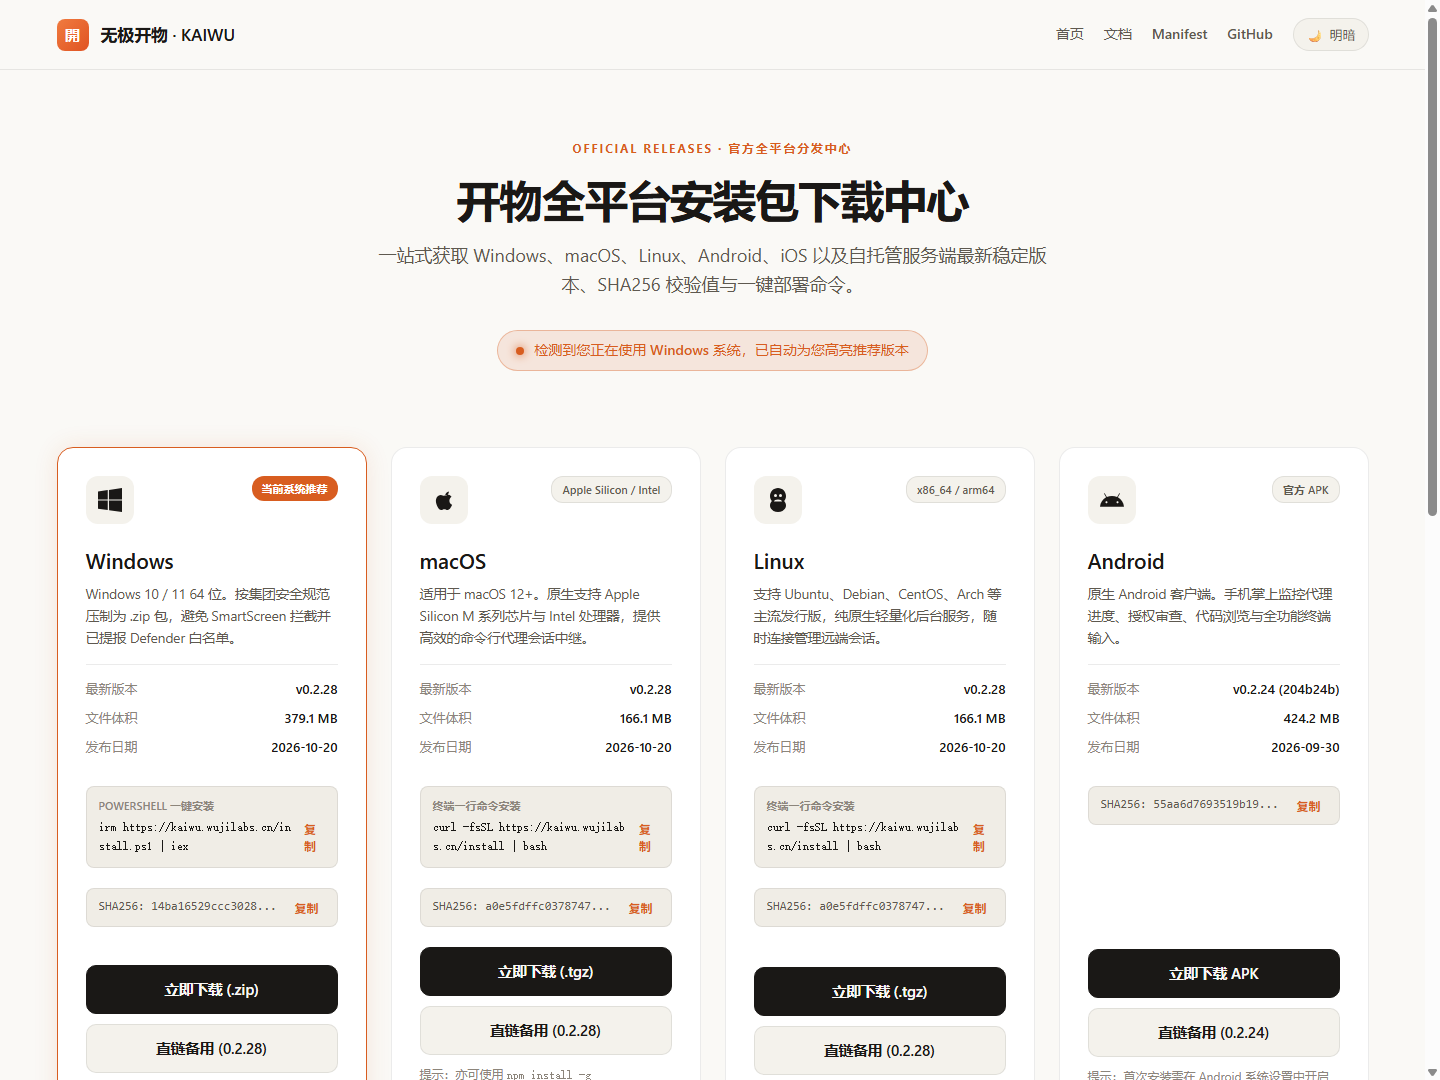
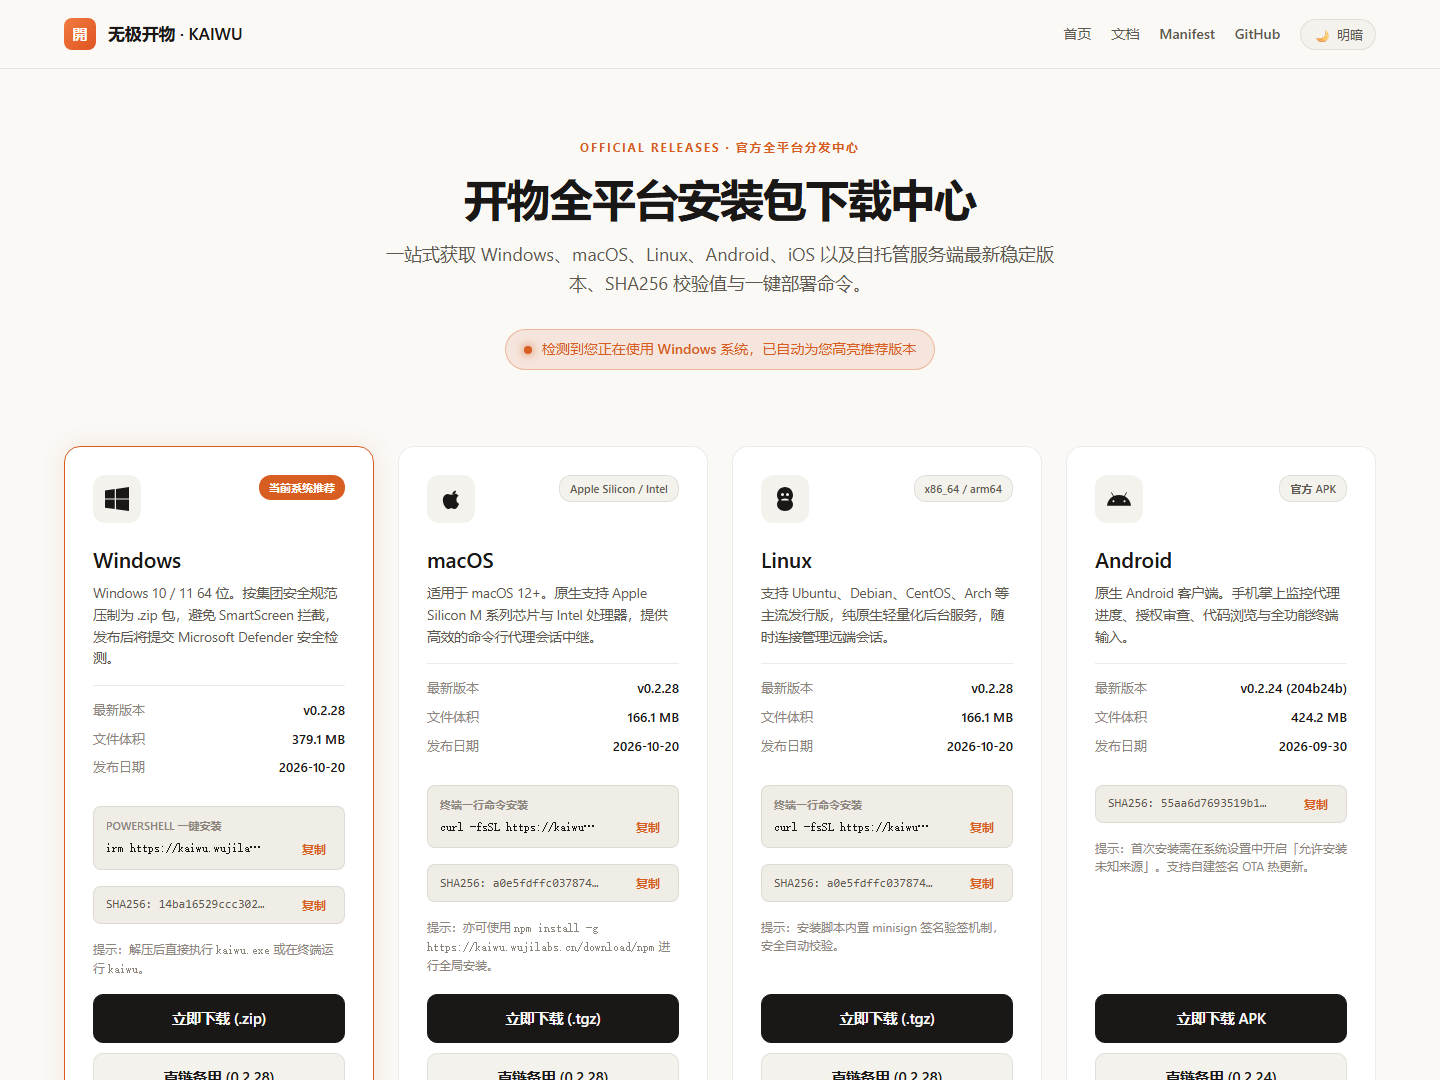
fix(website): 优化下载中心复制按钮与卡片按钮底端对齐，核实 Defender 表述
- 修复桌面端卡片内复制按钮被挤成两行的问题（增加 nowrap、固定宽度与截断保护）
- 优化卡片布局：采用纵向 flex 并设置按钮区 margin-top: auto，统一横向基准线
- 核实 Defender 提报情况并将文案修正为“发布后将提交 Microsoft Defender 安全检测”
- 更新桌面端 (1440) 与移动端 (390) 截图
- 鸿蒙客户端确认为纯血鸿蒙 NEXT 原生工程，因环境未安装 DevEco Studio / SDK 保持即将提供状态

Contract: K-DL
Actor: zoujin

diff --git a/apps/website/public/download/index.html b/apps/website/public/download/index.html
@@ -94,6 +94,7 @@
             font-weight: 600;
             font-size: 17px;
             letter-spacing: -0.01em;
+            white-space: nowrap;
         }
 
         .brand-logo {
@@ -107,12 +108,14 @@
             color: white;
             font-weight: 700;
             font-size: 15px;
+            flex-shrink: 0;
         }
 
         .nav-links {
             display: flex;
             align-items: center;
             gap: 20px;
+            flex-wrap: wrap;
         }
 
         .nav-links a {
@@ -121,6 +124,7 @@
             font-size: 14px;
             font-weight: 500;
             transition: color 0.15s ease;
+            white-space: nowrap;
         }
 
         .nav-links a:hover {
@@ -172,8 +176,29 @@
         }
 
         @media (max-width: 768px) {
+            .header-content {
+                gap: 12px;
+            }
+            .brand-link {
+                font-size: 15px;
+                gap: 8px;
+            }
+            .nav-links {
+                gap: 12px;
+            }
+            .nav-links a {
+                font-size: 13px;
+            }
+            .theme-toggle-btn {
+                padding: 4px 8px;
+                font-size: 12px;
+                white-space: nowrap;
+            }
             .hero h1 {
                 font-size: 32px;
+            }
+            .grid {
+                grid-template-columns: 1fr;
             }
         }
 
@@ -318,10 +343,11 @@
             border: 1px solid var(--border);
             border-radius: 8px;
             padding: 8px 12px;
-            margin-bottom: 20px;
+            margin-bottom: 16px;
             display: flex;
             justify-content: space-between;
             align-items: center;
+            gap: 8px;
             font-family: var(--font-mono);
             font-size: 12px;
         }
@@ -331,7 +357,8 @@
             overflow: hidden;
             text-overflow: ellipsis;
             white-space: nowrap;
-            max-width: 200px;
+            flex: 1;
+            min-width: 0;
         }
 
         .copy-btn {
@@ -344,10 +371,19 @@
             padding: 2px 6px;
             border-radius: 4px;
             transition: opacity 0.15s;
+            white-space: nowrap;
+            flex-shrink: 0;
+            width: 58px;
+            text-align: right;
+            box-sizing: border-box;
         }
 
         .copy-btn:hover {
             opacity: 0.8;
+        }
+
+        .manifest-code .copy-btn {
+            width: 76px;
         }
 
         .install-box {
@@ -355,7 +391,7 @@
             border: 1px solid var(--border);
             border-radius: 8px;
             padding: 10px 12px;
-            margin-bottom: 20px;
+            margin-bottom: 16px;
             font-family: var(--font-mono);
             font-size: 12px;
             position: relative;
@@ -374,8 +410,16 @@
             display: flex;
             justify-content: space-between;
             align-items: center;
+            gap: 8px;
             color: var(--text-primary);
-            word-break: break-all;
+        }
+
+        .install-cmd-content code {
+            overflow: hidden;
+            text-overflow: ellipsis;
+            white-space: nowrap;
+            flex: 1;
+            min-width: 0;
         }
 
         .btn-group {
@@ -432,8 +476,9 @@
         .subtext-note {
             font-size: 12px;
             color: var(--text-muted);
-            margin-top: 10px;
+            margin-bottom: 16px;
             line-height: 1.5;
+            min-height: 36px;
         }
 
         /* Manifest Box */
@@ -553,7 +598,7 @@
                     <span class="badge" id="badge-win">x64 便携包</span>
                 </div>
                 <h2 class="card-title">Windows</h2>
-                <p class="card-desc">Windows 10 / 11 64 位。按集团安全规范压制为 .zip 包，避免 SmartScreen 拦截并已提报 Defender 白名单。</p>
+                <p class="card-desc">Windows 10 / 11 64 位。按集团安全规范压制为 .zip 包，避免 SmartScreen 拦截，发布后将提交 Microsoft Defender 安全检测。</p>
                 <ul class="meta-list">
                     <li class="meta-item"><span class="meta-label">最新版本</span><span class="meta-val">v0.2.28</span></li>
                     <li class="meta-item"><span class="meta-label">文件体积</span><span class="meta-val">379.1 MB</span></li>
@@ -570,11 +615,11 @@
[2 lines of base64/hex data omitted]
                 </div>
+                <p class="subtext-note">提示：解压后直接执行 <code>kaiwu.exe</code> 或在终端运行 <code>kaiwu</code>。</p>
                 <div class="btn-group">
                     <a href="https://kaiwu.wujilabs.cn/download/windows" class="btn btn-primary">立即下载 (.zip)</a>
                     <a href="https://kaiwu.wujilabs.cn/docs/releases/windows/0.2.28/kaiwu-v0.2.28-windows-x64.zip" class="btn btn-secondary">直链备用 (0.2.28)</a>
                 </div>
-                <p class="subtext-note">提示：解压后直接执行 <code>kaiwu.exe</code> 或在终端运行 <code>kaiwu</code>。</p>
             </div>
 
             <!-- macOS Card -->
@@ -603,11 +648,11 @@
[2 lines of base64/hex data omitted]
                 </div>
+                <p class="subtext-note">提示：亦可使用 <code>npm install -g https://kaiwu.wujilabs.cn/download/npm</code> 进行全局安装。</p>
                 <div class="btn-group">
                     <a href="https://kaiwu.wujilabs.cn/download/macos" class="btn btn-primary">立即下载 (.tgz)</a>
                     <a href="https://kaiwu.wujilabs.cn/docs/releases/macos/0.2.28/kaiwu-cli-0.2.28.tgz" class="btn btn-secondary">直链备用 (0.2.28)</a>
                 </div>
-                <p class="subtext-note">提示：亦可使用 <code>npm install -g https://kaiwu.wujilabs.cn/download/npm</code> 进行全局安装。</p>
             </div>
 
             <!-- Linux Card -->
@@ -636,11 +681,11 @@
[2 lines of base64/hex data omitted]
                 </div>
+                <p class="subtext-note">提示：安装脚本内置 minisign 签名验签机制，安全自动校验。</p>
                 <div class="btn-group">
                     <a href="https://kaiwu.wujilabs.cn/download/linux" class="btn btn-primary">立即下载 (.tgz)</a>
                     <a href="https://kaiwu.wujilabs.cn/docs/releases/linux/0.2.28/kaiwu-cli-0.2.28.tgz" class="btn btn-secondary">直链备用 (0.2.28)</a>
                 </div>
-                <p class="subtext-note">提示：安装脚本内置 minisign 签名验签机制，安全自动校验。</p>
             </div>
 
             <!-- Android Card -->
@@ -662,11 +707,11 @@
[2 lines of base64/hex data omitted]
                 </div>
+                <p class="subtext-note">提示：首次安装需在系统设置中开启「允许安装未知来源」。支持自建签名 OTA 热更新。</p>
                 <div class="btn-group">
                     <a href="https://kaiwu.wujilabs.cn/download/android" class="btn btn-primary">立即下载 APK</a>
                     <a href="https://kaiwu.wujilabs.cn/docs/releases/android/0.2.24/kaiwu-0.2.24.apk" class="btn btn-secondary">直链备用 (0.2.24)</a>
                 </div>
-                <p class="subtext-note">提示：首次安装需在 Android 系统设置中开启「允许安装未知来源应用」。支持内置自建签名 OTA 热更新。</p>
             </div>
 
             <!-- iOS Card -->
@@ -688,11 +733,11 @@
[2 lines of base64/hex data omitted]
                 </div>
+                <p class="subtext-note">提示：在 iPhone Safari 打开官网，点击「分享」选择「添加到主屏幕」，无需签名即可畅享接近原生体验。</p>
                 <div class="btn-group">
                     <a href="https://kaiwu.wujilabs.cn/download/ios" class="btn btn-primary">下载未签名 IPA</a>
                     <a href="https://kaiwu.wujilabs.cn/" target="_blank" class="btn btn-secondary">打开 Web App (推荐)</a>
                 </div>
-                <p class="subtext-note">提示：在 iPhone Safari 打开官网，点击「分享」按钮选择「添加到主屏幕」，无需签名即可获得接近原生体验且支持热更新。</p>
             </div>
 
             <!-- HarmonyOS Card -->
@@ -714,10 +759,11 @@
                     <span class="sha-text">校验值待发布生成</span>
                     <span style="color: var(--text-muted); font-size: 11px;">敬请期待</span>
                 </div>
+                <p class="subtext-note">说明：<code>apps/harmony</code> 原生工程已就绪，当前环境未配置 DevEco Studio / OpenHarmony SDK 及签名证书；可先使用华为手机浏览器访问 Web 版。</p>
                 <div class="btn-group">
                     <button class="btn btn-disabled" disabled>即将提供 · 暂未开放</button>
+                    <a href="https://kaiwu.wujilabs.cn/" target="_blank" class="btn btn-secondary">优先体验 Web 版</a>
                 </div>
-                <p class="subtext-note">说明：本仓暂未创建 <code>apps/harmony</code> 原生分发产物，目前请先使用华为手机浏览器访问 Web 版体验。</p>
             </div>
 
             <!-- Server Self-host Card -->
@@ -746,11 +792,11 @@
[2 lines of base64/hex data omitted]
                 </div>
+                <p class="subtext-note">Docker 镜像：<code>wuji-labs/kaiwu-relay:0.2.11-kw.1</code>，支持 Linux x86_64。</p>
                 <div class="btn-group">
                     <a href="https://kaiwu.wujilabs.cn/download/server" class="btn btn-primary">下载服务端核心 (.tar.gz)</a>
                     <a href="https://kaiwu.wujilabs.cn/docs/self-hosting" target="_blank" class="btn btn-secondary">查看自托管文档</a>
                 </div>
-                <p class="subtext-note">Docker 镜像：<code>wuji-labs/kaiwu-relay:0.2.11-kw.1</code>，支持 Linux x86_64。</p>
             </div>
 
             <!-- npm Package Card -->
@@ -779,10 +825,11 @@
[2 lines of base64/hex data omitted]
                 </div>
+                <p class="subtext-note">要求：Node.js &gt;= 18 或 Bun &gt;= 1.0，跨主流操作系统即装即用。</p>
                 <div class="btn-group">
                     <a href="https://kaiwu.wujilabs.cn/download/npm" class="btn btn-primary">下载 tarball (.tgz)</a>
+                    <a href="https://kaiwu.wujilabs.cn/docs/releases/npm/0.2.28/kaiwu-cli-0.2.28.tgz" class="btn btn-secondary">直链备用 (0.2.28)</a>
                 </div>
-                <p class="subtext-note">要求：Node.js >= 18 或 Bun >= 1.0。</p>
             </div>
         </section>
 

diff --git a/apps/website/src/pages/DownloadPage.tsx b/apps/website/src/pages/DownloadPage.tsx
@@ -23,7 +23,7 @@ export function DownloadPage() {
                                 <span className="text-xs px-2.5 py-1 rounded-full border" style={{ borderColor: 'var(--card-border)', color: 'var(--muted)' }}>v0.2.28 · x64</span>
                             </div>
                             <p className="text-sm mb-4" style={{ color: 'var(--muted)' }}>
-                                Windows 10 / 11 64 位。按集团安全规范压制为 .zip 包，避免 SmartScreen 拦截并已提报 Defender 白名单。
+                                Windows 10 / 11 64 位。按集团安全规范压制为 .zip 包，避免 SmartScreen 拦截，发布后将提交 Microsoft Defender 安全检测。
                             </p>
                             <div className="rounded p-2 text-xs font-mono mb-4 overflow-hidden text-ellipsis" style={{ background: 'var(--code-bg, rgba(0,0,0,0.05))', color: 'var(--muted)' }}>
                                 SHA256: 14ba16529ccc3028...
